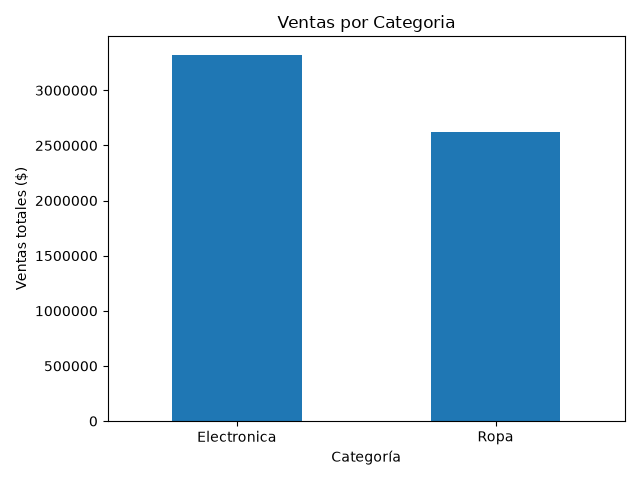
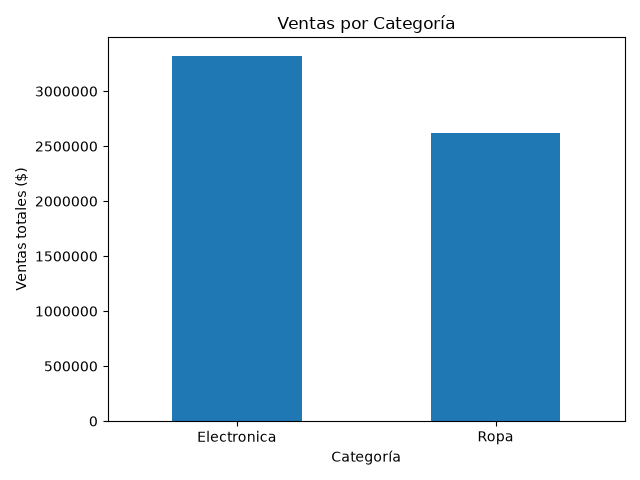
agregar sistema de automatización

diff --git a/automatizar.py b/automatizar.py
@@ -1,0 +1,101 @@
+# ============================================
+# AUTOMATIZACIÓN - Bot de Ventas
+# Vigila la carpeta datos/ y cuando detecta un archivo nuevo,
+# procesa todo automáticamente: lee, consolida, normaliza, limpia,
+# guarda el Excel, genera los gráficos y registra el proceso en un log
+# ============================================
+import os
+import time
+import pandas as pd
+import matplotlib.pyplot as plt
+from datos import cargar_datos
+
+CARPETA_DATOS = os.path.join(os.path.dirname(os.path.abspath(__file__)), "datos")
+CARPETA_RESULTADOS = os.path.join(os.path.dirname(os.path.abspath(__file__)), "resultados")
+
+
+def normalizar(df):
+    """
+    Normaliza las columnas del archivo de Bogotá (nombres distintos)
+    al formato estándar del resto de sucursales.
+    """
+    if 'Fecha_Venta' in df.columns:
+        df = df.rename(columns={
+            "Fecha_Venta": "fecha",
+            "Producto": "producto",
+            "Categoria": "categoria",
+            "Cant": "cantidad",
+            "Valor_Unitario": "precio_unitario",
+            "Vendedor": "vendedor",
+            "Pago": "metodo_pago"
+        })
+    return df
+
+
+def limpiar(df):
+    """Elimina duplicados y rellena los nulos con valores que tienen sentido."""
+    df = df.drop_duplicates()
+    df['metodo_pago'] = df['metodo_pago'].fillna('Desconocido')
+    df['vendedor'] = df['vendedor'].fillna('Desconocido')
+    mediana_por_producto = df.groupby('producto')['precio_unitario'].transform('median')
+    df['precio_unitario'] = df['precio_unitario'].fillna(mediana_por_producto)
+    return df
+
+
+def procesar_todo(archivo_nuevo):
+    """
+    Lee todos los reportes de sucursales, los normaliza, consolida y limpia,
+    guarda el Excel consolidado, genera los dos gráficos y registra el proceso.
+    """
+    lista_informes = [normalizar(df) for df in cargar_datos()]
+    df_consolidado = pd.concat(lista_informes, ignore_index=True)
+    df_consolidado = limpiar(df_consolidado)
+
+    # Excel consolidado
+    df_consolidado.to_excel(os.path.join(CARPETA_RESULTADOS, "consolidado_limpio.xlsx"), index=False)
+
+    # Gráfico 1: ventas por categoría (barras)
+    ventas_categoria = df_consolidado.groupby('categoria')['precio_unitario'].sum()
+    ventas_categoria.plot(kind='bar', title='Ventas por Categoría')
+    plt.ticklabel_format(style='plain', axis='y')
+    plt.ylabel('Ventas totales ($)')
+    plt.xlabel('Categoría')
+    plt.xticks(rotation=0)
+    plt.tight_layout()
+    plt.savefig(os.path.join(CARPETA_RESULTADOS, "grafico_categoria.png"))
+    plt.close()
+
+    # Gráfico 2: participación por vendedor (torta)
+    ventas_vendedor = df_consolidado.groupby('vendedor')['precio_unitario'].sum()
+    ventas_vendedor.plot(kind='pie', autopct='%1.1f%%', title='Participación de Ventas por Vendedor')
+    plt.ylabel('')
+    plt.tight_layout()
+    plt.savefig(os.path.join(CARPETA_RESULTADOS, "grafico_vendedor.png"))
+    plt.close()
+
+    # Log del proceso
+    with open(os.path.join(CARPETA_RESULTADOS, "log_automatizacion.txt"), "a") as f:
+        f.write(f"Proceso ejecutado: {pd.Timestamp.now()}\n")
+        f.write(f"Archivo detectado: {archivo_nuevo}\n")
+        f.write(f"Total de registros procesados: {len(df_consolidado)}\n")
+        f.write("---\n")
+
+    print("Proceso completado - archivos actualizados en resultados/")
+
+
+# ---------- LOOP DE VIGILANCIA ----------
+if __name__ == "__main__":
+    os.makedirs(CARPETA_RESULTADOS, exist_ok=True)
+    archivos_vistos = set(os.listdir(CARPETA_DATOS))
+
+    print("Monitoreando carpeta 'datos/'... (Ctrl+C para detener)")
+    while True:
+        archivos_actuales = set(os.listdir(CARPETA_DATOS))
+        archivos_nuevos = archivos_actuales - archivos_vistos
+
+        if archivos_nuevos:
+            print(f"Nuevo archivo detectado: {archivos_nuevos}")
+            procesar_todo(archivos_nuevos)
+            archivos_vistos = archivos_actuales
+
+        time.sleep(5)

diff --git a/datos.py b/datos.py
@@ -1,20 +1,26 @@
 import os
+import glob
 import pandas as pd
 
 CARPETA_DATOS = os.path.join(os.path.dirname(os.path.abspath(__file__)), "datos")
 
-ARCHIVOS = [
-    "sucursal_medellin.csv",
-    "sucursal_bogota.xlsx",
-    "sucursal_cali.csv",
-    "sucursal_barranquilla.xlsx",
-]
+def obtener_archivos_datos():
+    """
+    Descubre dinamicamente los archivos fuente sucursal_*.csv/.xlsx en la
+    carpeta datos/. Se usa glob acotado al prefijo 'sucursal_' y a esa carpeta,
+    de modo que NUNCA se leen las salidas de resultados/ (evita el problema de
+    re-ejecucion documentado en el README).
+    """
+    archivos = []
+    for patron in ("sucursal_*.csv", "sucursal_*.xlsx"):
+        archivos.extend(glob.glob(os.path.join(CARPETA_DATOS, patron)))
+    return [a for a in sorted(archivos) if os.path.isfile(a)]
 
 def cargar_datos():
     lista_dataframes = []
-    for archivo in ARCHIVOS:
-        ruta = os.path.join(CARPETA_DATOS, archivo)
-        df = pd.read_csv(ruta) if archivo.endswith(".csv") else pd.read_excel(ruta)
+    for ruta in obtener_archivos_datos():
+        _, nombre = os.path.split(ruta)
+        df = pd.read_csv(ruta) if ruta.endswith(".csv") else pd.read_excel(ruta)
         lista_dataframes.append(df)
-        print(f"Leido: datos/{archivo} - {len(df)} filas")
+        print(f"Leido: datos/{nombre} - {len(df)} filas")
     return lista_dataframes

diff --git a/README.md b/README.md
@@ -9,13 +9,16 @@ Script en Python con `pandas` que lee los reportes de ventas de 4 sucursales (Me
 │   ├── sucursal_medellin.csv      # Formato estándar
 │   ├── sucursal_bogota.xlsx       # Con nombres de columnas distintos
 │   ├── sucursal_cali.csv          # Formato estándar
-│   └── sucursal_barranquilla.xlsx # Formato estándar
-├── resultados/                # Salidas generadas por el script
+│   ├── sucursal_barranquilla.xlsx # Formato estándar
+│   └── sucursal_*_reporte2.csv    # Reportes nuevos que arrastras a su tiempo
+├── resultados/                # Salidas generadas por los scripts
 │   ├── consolidado_limpio.xlsx    # Consolidado limpio y normalizado
 │   ├── grafico_categoria.png      # Barras: ventas por categoría
-│   └── grafico_vendedor.png       # Torta: participación por vendedor
-├── bot_reporte.py             # Script principal: consolida, limpia, analiza y grafica
-├── datos.py                   # Define los archivos fuente y los carga en DataFrames
+│   ├── grafico_vendedor.png       # Torta: participación por vendedor
+│   └── log_automatizacion.txt     # Registro de cada proceso de automatización
+├── bot_reporte.py             # Script principal: consolida, limpia, analiza y grafica (una vez)
+├── automatizar.py             # Bot que vigila datos/ y procesa reportes nuevos en automático
+├── datos.py                   # Descubre los archivos fuente y los carga en DataFrames
 └── README.md
 ```
 
@@ -27,7 +30,42 @@ python bot_reporte.py
 
 Puedes ejecutarlo las veces que quieras: los archivos generados en `resultados/` no interfieren en la siguiente ejecución.
 
-## Qué hace el script
+## Automatización (automatizar.py)
+
+El sistema ahora puede **vigilar la carpeta `datos/`** y procesar reportes nuevos automáticamente, sin que tengas que editar el código ni ejecutar nada a mano.
+
+### Qué hace el sistema
+
+Deja corriendo `automatizar.py` y él se encarga de todo: relee los reportes de las sucursales, los normaliza y consolida, limpia los datos, actualiza el Excel consolidado, regenera los dos gráficos y va guardando un **log** con cada proceso. Es como un empleado que está pendiente de la carpeta todo el tiempo.
+
+### Cómo detecta los archivos nuevos
+
+Funciona con `glob` para descubrir los archivos fuente y con una comparación de nombres:
+
+1. Al arrancar, toma una "foto" de los nombres de archivos que ya hay en `datos/` (`sucursal_*.csv` y `sucursal_*.xlsx`).
+2. Cada **5 segundos** vuelve a listar la carpeta y la compara con esa foto.
+3. Si aparece un nombre que no estaba antes (por ejemplo `sucursal_cali_reporte2.csv`), ahí hay un archivo nuevo.
+
+### Qué pasa cuando encuentra uno
+
+Cuando detecta un archivo nuevo:
+
+1. Imprime en consola `Nuevo archivo detectado: {...}` con su nombre.
+2. Vuelve a leer **todos** los reportes con `glob` (los originales + el nuevo), los normaliza y los consolida en un solo DataFrame.
+3. Limpia duplicados y rellena los nulos (método de pago y vendedor con `'Desconocido'`, precio con la mediana del producto).
+4. Sobre-escribe `resultados/consolidado_limpio.xlsx` y regenera `grafico_categoria.png` y `grafico_vendedor.png`.
+5. **Agrega** una entrada en `resultados/log_automatizacion.txt` con la fecha/hora, el archivo detectado y el total de registros procesados.
+6. Sigue vigilando, listo para el siguiente archivo.
+
+### Ejecutar la automatización
+
+```bash
+python automatizar.py
+```
+
+Imprime `Monitoreando carpeta 'datos/'...`. Deja el script corriendo y arrastra los nuevos reportes a `datos/`, uno a la vez. Para detenerlo usa `Ctrl+C`. El script `bot_reporte.py` sigue disponible si quieres procesar todo una sola vez.
+
+## Qué hace el script (bot_reporte.py)
 
 1. **Carga**: lee los 4 archivos fuente desde `datos/`, sin importar si son `.csv` o `.xlsx`.
 2. **Normaliza**: renombra las columnas de Bogotá (`Fecha_Venta`, `Producto`, ...) al formato estándar del resto.
@@ -101,6 +139,6 @@ pandas.errors.InvalidIndexError: Reindexing only valid with uniquely valued Inde
 
 La solución fue doble:
 
-1. **Módulo `datos.py`**: define una lista fija de los 4 archivos fuente (`ARCHIVOS`). Al importarlo, `bot_reporte.py` solo lee los datos fuente y nunca lo que él mismo genera.
+1. **Módulo `datos.py`**: define los archivos fuente de forma confiable. Ahora, en lugar de una lista fija, usa `obtener_archivos_datos()` con **glob acotado**: solo busca `sucursal_*.csv` y `sucursal_*.xlsx` dentro de la carpeta `datos/`. Como las salidas viven en `resultados/` y no empiezan con `sucursal_`, nunca vuelven a ser leídas.
 2. **Carpetas separadas**: los datos viven en `datos/` y las salidas en `resultados/`, así nunca se mezclan.
 3. **Guardar sin índice**: los Excel de salida se guardan con `index=False`, evitando la columna extra `Unnamed: 0` al volver a leerlos.
